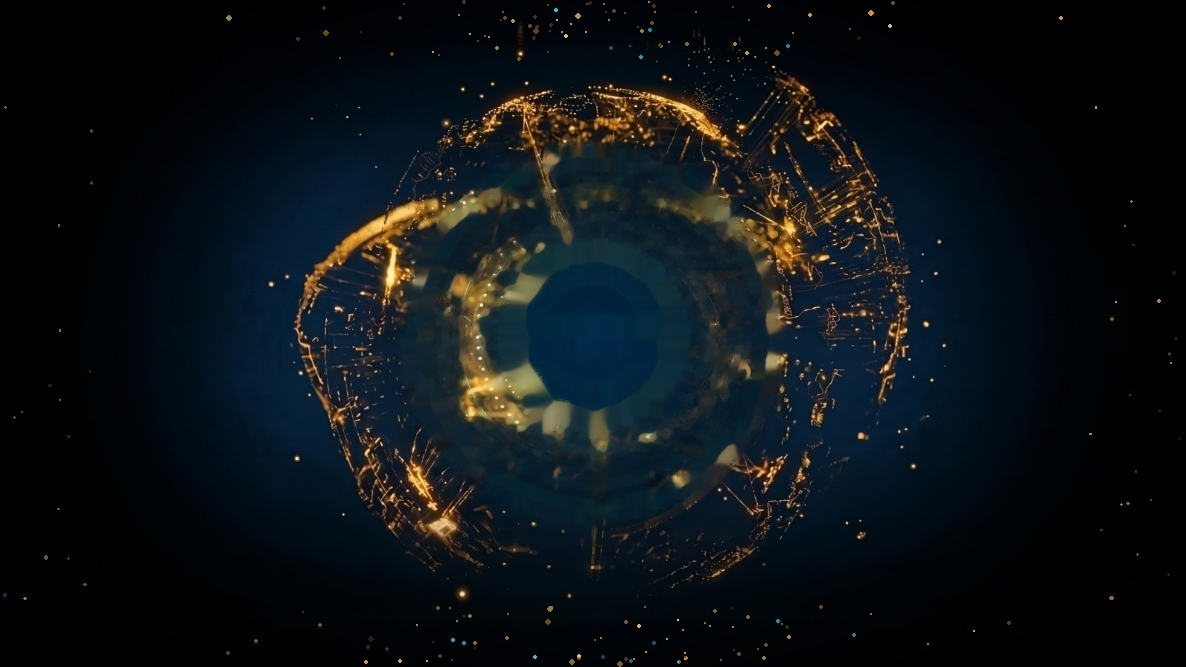
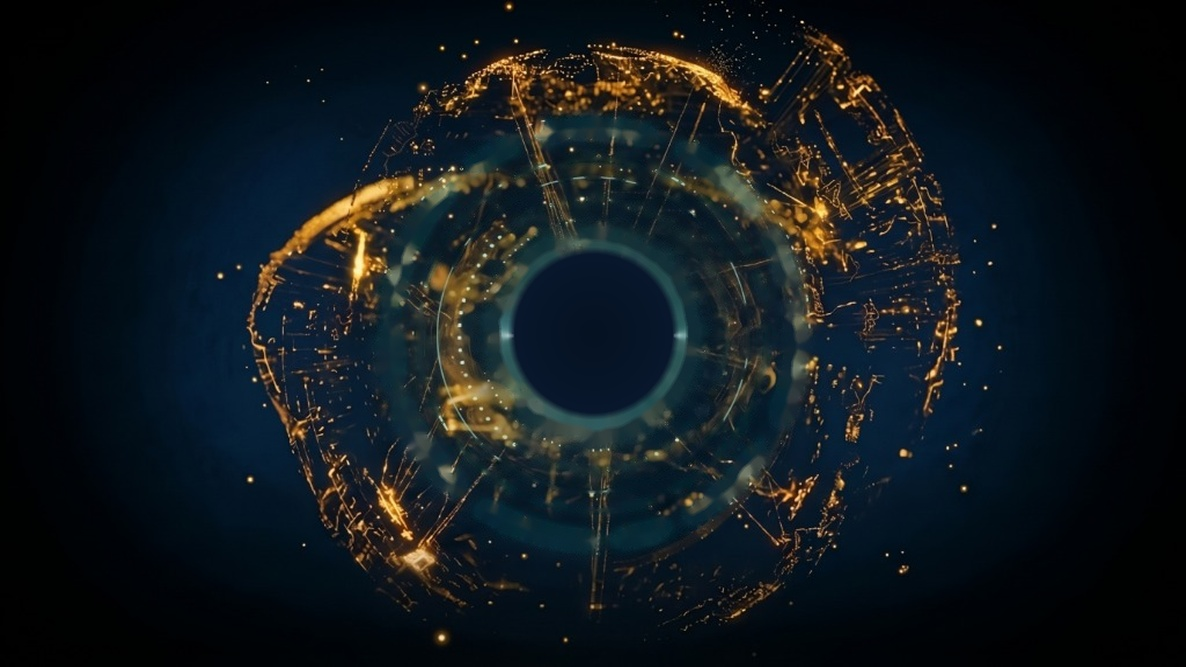
feat(ui): eliminate glow bloom from circular lines, restore golden circuitry beneath core, and calibrate high-contrast space

diff --git a/frontend/style.css b/frontend/style.css
@@ -979,7 +979,7 @@ body {
   position: fixed;
   inset: 0;
   z-index: 9999;
-  background: radial-gradient(ellipse at center, #061e38 0%, #031120 40%, #010710 70%, #000205 100%);
+  background: radial-gradient(ellipse at center, #021020 0%, #010912 35%, #000408 65%, #000000 100%);
   display: flex;
   flex-direction: column;
   align-items: center;
@@ -1016,7 +1016,7 @@ body {
   max-width: 100vw;
   max-height: 100vh;
   mix-blend-mode: screen;
-  filter: contrast(1.1) brightness(0.91);
+  filter: contrast(1.22) brightness(0.82);
   transition: transform 0.6s cubic-bezier(0.16, 1, 0.3, 1), filter 0.6s ease, opacity 0.6s ease;
   user-select: none;
   -webkit-user-drag: none;
@@ -1024,7 +1024,7 @@ body {
 
 /* Speaking State on Hero Image (Calm, steady without rapid heartbeat scaling) */
 .splash-screen.speaking .splash-hero-img {
-  filter: contrast(1.1) brightness(1.10) drop-shadow(0 0 25px rgba(0, 229, 255, 0.45));
+  filter: contrast(1.22) brightness(1.02) drop-shadow(0 0 25px rgba(0, 229, 255, 0.45));
 }
 
 /* When Transitioned to Tactical Deck: Arc Reactor Remains in Background */
@@ -1039,14 +1039,14 @@ body {
 
 .splash-screen.hidden .splash-hero-img {
   opacity: 0.60;
-  filter: brightness(0.85) contrast(1.1);
+  filter: brightness(0.76) contrast(1.22);
   transform: scale(0.98);
   transition: all 0.7s cubic-bezier(0.16, 1, 0.3, 1);
 }
 
 .splash-screen.hidden .splash-centerpiece-wrapper {
   opacity: 0.22;
-  filter: drop-shadow(0 0 8px rgba(0, 229, 255, 0.35));
+  filter: none;
   transform: scale(0.96);
   pointer-events: none;
   transition: opacity 0.7s cubic-bezier(0.16, 1, 0.3, 1), transform 0.7s cubic-bezier(0.16, 1, 0.3, 1);
@@ -1080,24 +1080,17 @@ body {
   z-index: 3;
 }
 
-/* Ambient Radial Backlight */
+/* Ambient Radial Backlight (Hidden to eliminate hazy hue over golden circuitry) */
 .centerpiece-ambient-backlight {
-  position: absolute;
-  width: 100%;
-  height: 100%;
-  border-radius: 50%;
-  background: radial-gradient(circle, rgba(102, 224, 255, 0.14) 0%, rgba(98, 182, 203, 0.06) 45%, transparent 70%);
-  mix-blend-mode: screen;
-  pointer-events: none;
-  z-index: 1;
+  display: none;
 }
 
-/* SVG Concentric HUD Rings */
+/* SVG Concentric HUD Rings (Clean, razor-sharp vector lines with zero light spill) */
 .hud-centerpiece-svg {
   width: 100%;
   height: 100%;
   overflow: visible;
-  filter: drop-shadow(0 0 20px rgba(56, 214, 255, 0.25));
+  filter: none;
   z-index: 5;
   pointer-events: none;
 }
@@ -1109,7 +1102,7 @@ body {
   stroke-width: 1.5;
   stroke-dasharray: 4 12;
   opacity: 0.80;
-  filter: drop-shadow(0 0 4px rgba(200, 244, 255, 0.65));
+  filter: none;
   transform-origin: 300px 300px;
   animation: rotateClockwise 70s linear infinite;
 }
@@ -1120,7 +1113,7 @@ body {
   stroke: #48dcff;
   stroke-width: 4.5;
   stroke-dasharray: 120 30 60 30 140 40;
-  filter: drop-shadow(0 0 8px rgba(56, 214, 255, 0.85)) drop-shadow(0 0 16px rgba(92, 225, 255, 0.45));
+  filter: none;
   transform-origin: 300px 300px;
   animation: rotateCounterClockwise 50s linear infinite;
 }
@@ -1131,6 +1124,7 @@ body {
   stroke: #62b6cb;
   stroke-width: 1.5;
   opacity: 0.60;
+  filter: none;
 }
 
 /* 4. Thin Mid-Rings & Long Inner Arcs (Muted Glacier / Sky Blue #62B6CB to #7FD1E8 at ~60% opacity) */
@@ -1140,7 +1134,7 @@ body {
   stroke-width: 1.5;
   stroke-dasharray: 90 20 40 25;
   opacity: 0.60;
-  filter: drop-shadow(0 0 4px rgba(98, 182, 203, 0.6));
+  filter: none;
   transform-origin: 300px 300px;
   animation: rotateClockwise 40s linear infinite;
 }
@@ -1150,17 +1144,17 @@ body {
   stroke: #62b6cb;
   stroke-width: 1.4;
   opacity: 0.60;
-  filter: drop-shadow(0 0 4px rgba(98, 182, 203, 0.55));
+  filter: none;
 }
 
-/* 3. Concentric Dot Rings (Pale Ice-Blue / White #C8F4FF to #E6FFFF with subtle cyan halo) */
+/* 3. Concentric Dot Rings (Pale Ice-Blue / White #C8F4FF to #E6FFFF) */
 .hud-ring-beaded {
   fill: none;
   stroke: #e6ffff;
   stroke-width: 3.2;
   stroke-dasharray: 1 14;
   stroke-linecap: round;
-  filter: drop-shadow(0 0 4px #c8f4ff) drop-shadow(0 0 8px rgba(102, 224, 255, 0.7));
+  filter: none;
   transform-origin: 300px 300px;
   animation: rotateCounterClockwise 28s linear infinite;
 }
@@ -1172,7 +1166,7 @@ body {
   stroke-width: 1.5;
   stroke-dasharray: 2 8;
   opacity: 0.60;
-  filter: drop-shadow(0 0 4px rgba(98, 182, 203, 0.6));
+  filter: none;
   transform-origin: 300px 300px;
   animation: rotateClockwise 55s linear infinite;
 }
@@ -1185,7 +1179,7 @@ body {
   stroke-dasharray: 5 9;
   stroke-dashoffset: 45;
   opacity: 0.90;
-  filter: drop-shadow(0 0 6px rgba(120, 216, 216, 0.75)) drop-shadow(0 0 12px rgba(154, 234, 234, 0.45));
+  filter: none;
   transform-origin: 300px 300px;
   animation: pulseSegmented 3.5s ease-in-out infinite;
 }
@@ -1204,12 +1198,12 @@ body {
   display: none;
 }
 
-/* 1. Inner Solid Core Ring (Pure White-Hot #FFFFFF with soft #66E0FF outer bloom) */
+/* 1. Inner Solid Core Ring (Pure White-Hot #FFFFFF with crisp vector border) */
 .hud-core-ring {
   fill: none;
   stroke: #ffffff;
   stroke-width: 3.2;
-  filter: drop-shadow(0 0 6px #ffffff) drop-shadow(0 0 14px rgba(102, 224, 255, 0.75));
+  filter: none;
   animation: pulseCoreGlow 3s ease-in-out infinite;
 }
 
@@ -1220,10 +1214,10 @@ body {
   stroke-width: 1.4;
   stroke-dasharray: 4 6;
   opacity: 0.60;
-  filter: drop-shadow(0 0 4px rgba(98, 182, 203, 0.55));
+  filter: none;
 }
 
-/* 1. J.A.R.V.I.S. Text (Pure White #FFFFFF with soft #66E0FF bloom) */
+/* 1. J.A.R.V.I.S. Text (Pure White #FFFFFF with razor-sharp edges) */
 .hud-core-title {
   font-family: 'Orbitron', 'JetBrains Mono', sans-serif;
   font-size: 26px;
@@ -1232,11 +1226,11 @@ body {
   text-anchor: middle;
   dominant-baseline: middle;
   letter-spacing: 5px;
-  filter: drop-shadow(0 0 6px #ffffff) drop-shadow(0 0 16px rgba(102, 224, 255, 0.85));
+  filter: none;
   transition: all 0.3s ease;
 }
 
-/* 1. Core Status (Ice-White #E8FFFF with subtle bloom) */
+/* 1. Core Status (Ice-White #E8FFFF with razor-sharp clarity) */
 .hud-core-status {
   font-family: var(--font-mono);
   font-size: 9px;
@@ -1245,7 +1239,7 @@ body {
   text-anchor: middle;
   dominant-baseline: middle;
   letter-spacing: 2px;
-  filter: drop-shadow(0 0 4px rgba(102, 224, 255, 0.8));
+  filter: none;
 }
 
 /* Dissolve / Speaking State Transition */
@@ -1439,16 +1433,17 @@ body {
 }
 
 @keyframes pulseCoreGlow {
-
   0%,
   100% {
-    filter: drop-shadow(0 0 5px #ffffff) drop-shadow(0 0 14px rgba(102, 224, 255, 0.75));
+    filter: none;
+    opacity: 0.92;
     stroke: #ffffff;
   }
 
   50% {
-    filter: drop-shadow(0 0 8px #ffffff) drop-shadow(0 0 22px rgba(102, 224, 255, 0.95)) drop-shadow(0 0 35px rgba(102, 224, 255, 0.5));
-    stroke: #e8ffff;
+    filter: none;
+    opacity: 1;
+    stroke: #ffffff;
   }
 }
 
